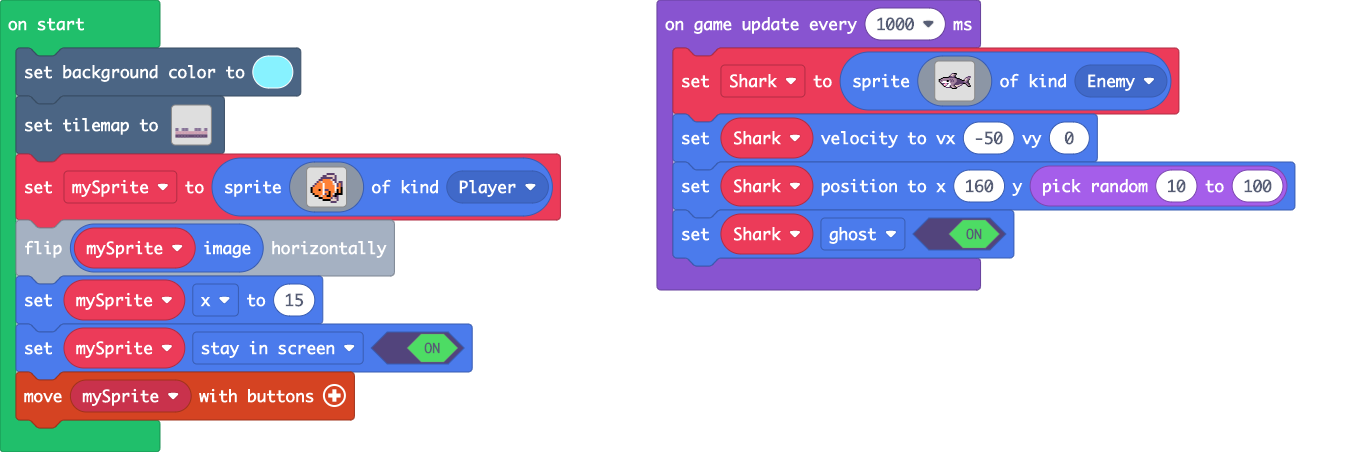
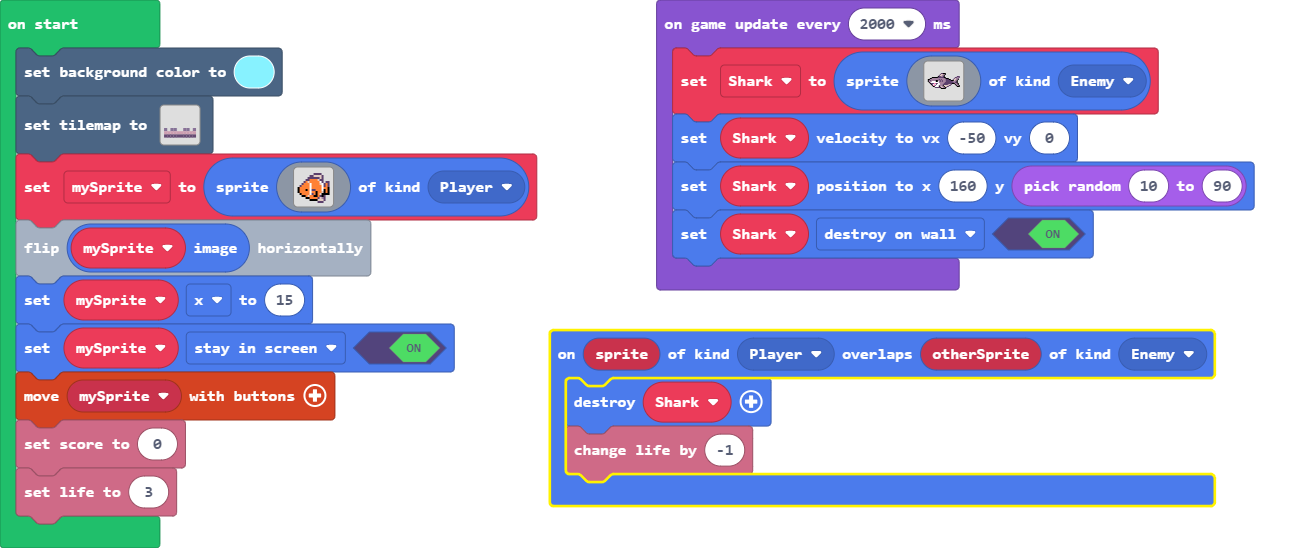
Update main.blocks, main.ts

diff --git a/main.ts b/main.ts
@@ -1,6 +1,10 @@
 namespace SpriteKind {
     export const Ghost = SpriteKind.create()
 }
+sprites.onOverlap(SpriteKind.Player, SpriteKind.Enemy, function (sprite, otherSprite) {
+    Shark.destroy()
+    info.changeLifeBy(-1)
+})
 let Shark: Sprite = null
 scene.setBackgroundColor(9)
[1 lines of base64/hex data omitted]
@@ -35,7 +39,9 @@ mySprite.image.flipX()
 mySprite.x = 15
 mySprite.setFlag(SpriteFlag.StayInScreen, true)
 controller.moveSprite(mySprite)
-game.onUpdateInterval(1000, function () {
+info.setScore(0)
+info.setLife(3)
+game.onUpdateInterval(2000, function () {
     Shark = sprites.create(img`
         .............ccfff..............
         ............cddbbf..............
@@ -55,6 +61,6 @@ game.onUpdateInterval(1000, function () {
         .............fffff..............
         `, SpriteKind.Enemy)
     Shark.setVelocity(-50, 0)
-    Shark.setPosition(160, randint(10, 100))
-    Shark.setFlag(SpriteFlag.Ghost, true)
+    Shark.setPosition(160, randint(10, 90))
+    Shark.setFlag(SpriteFlag.DestroyOnWall, true)
 })
